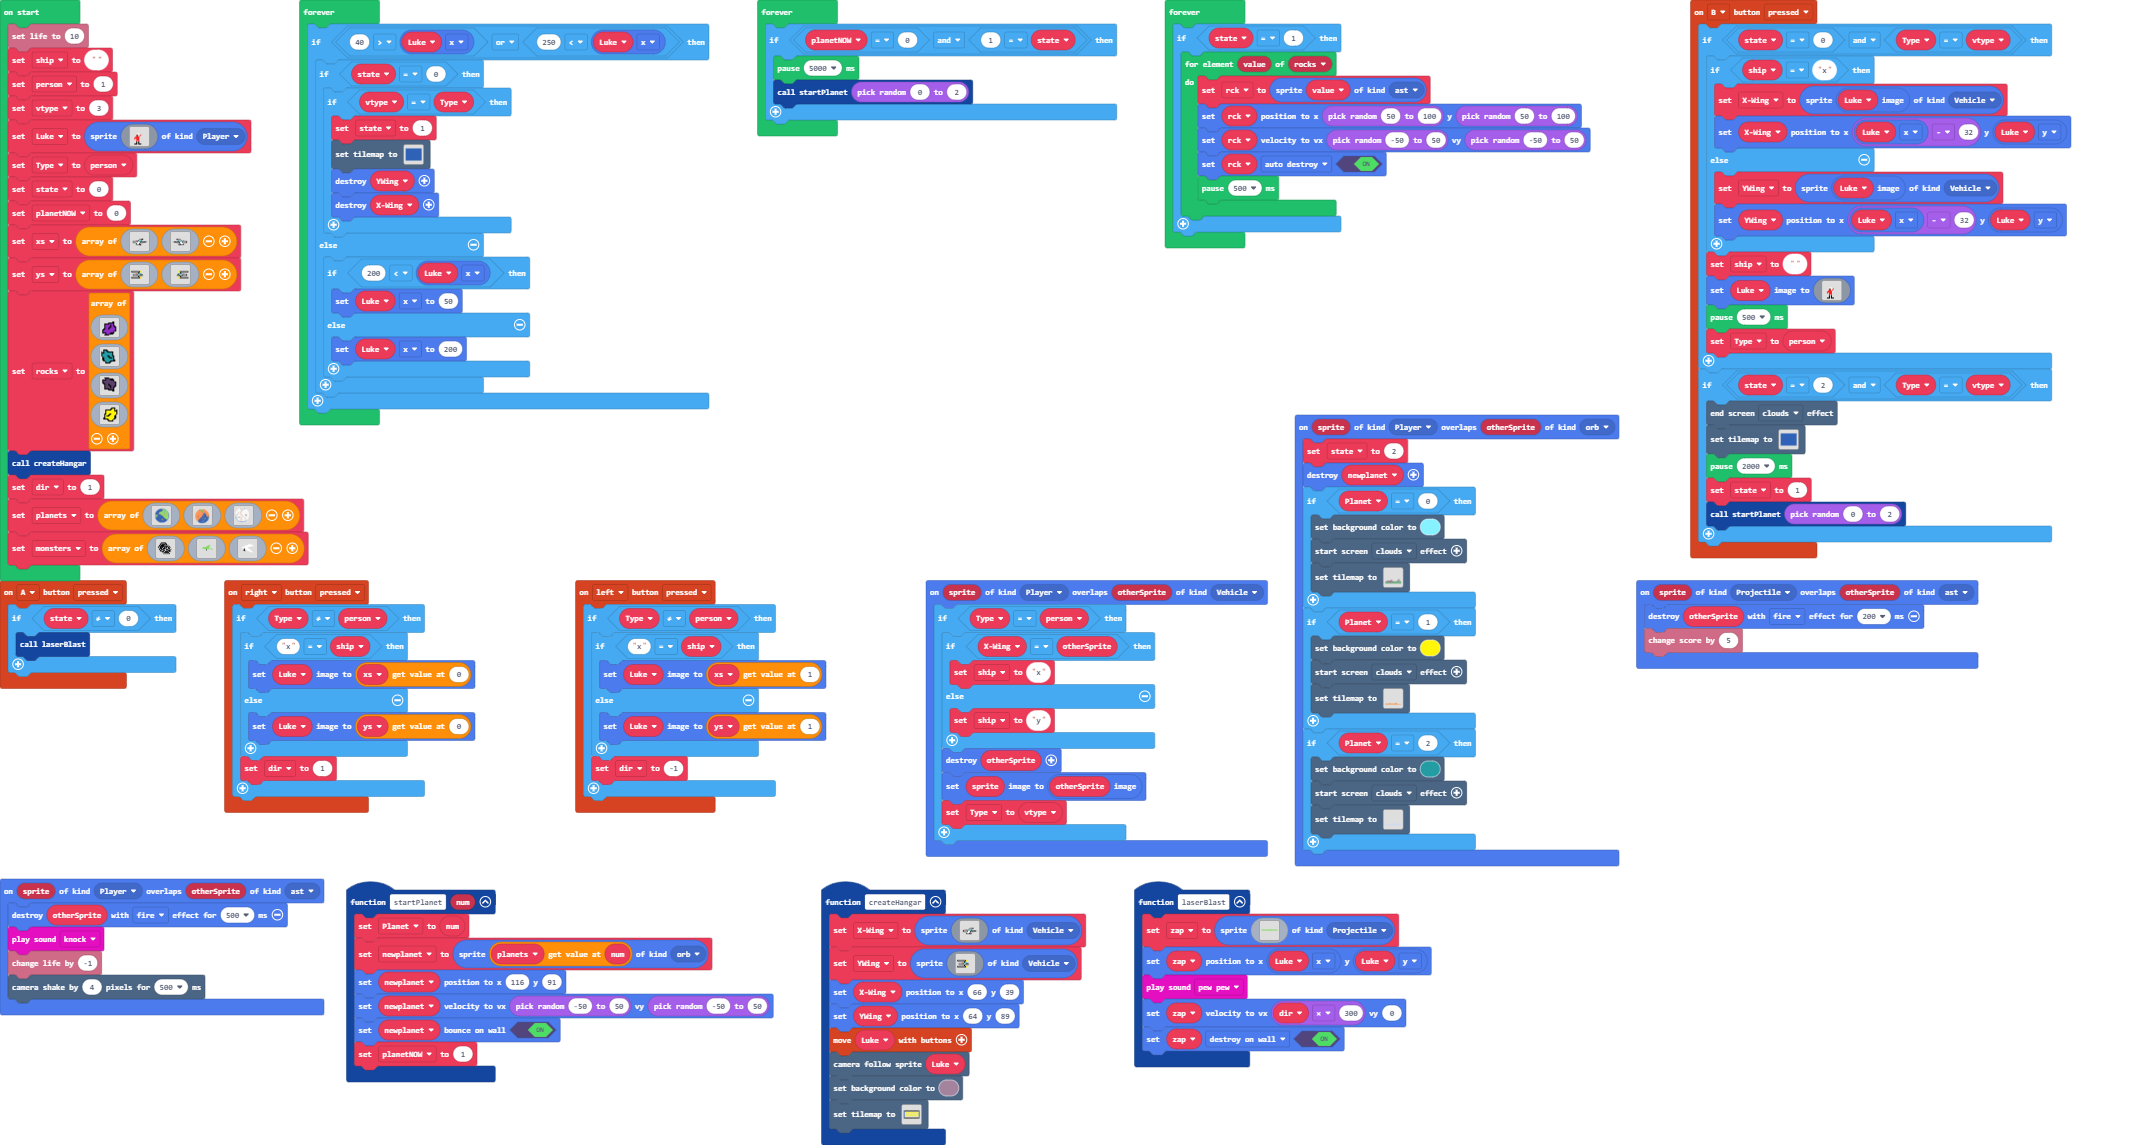
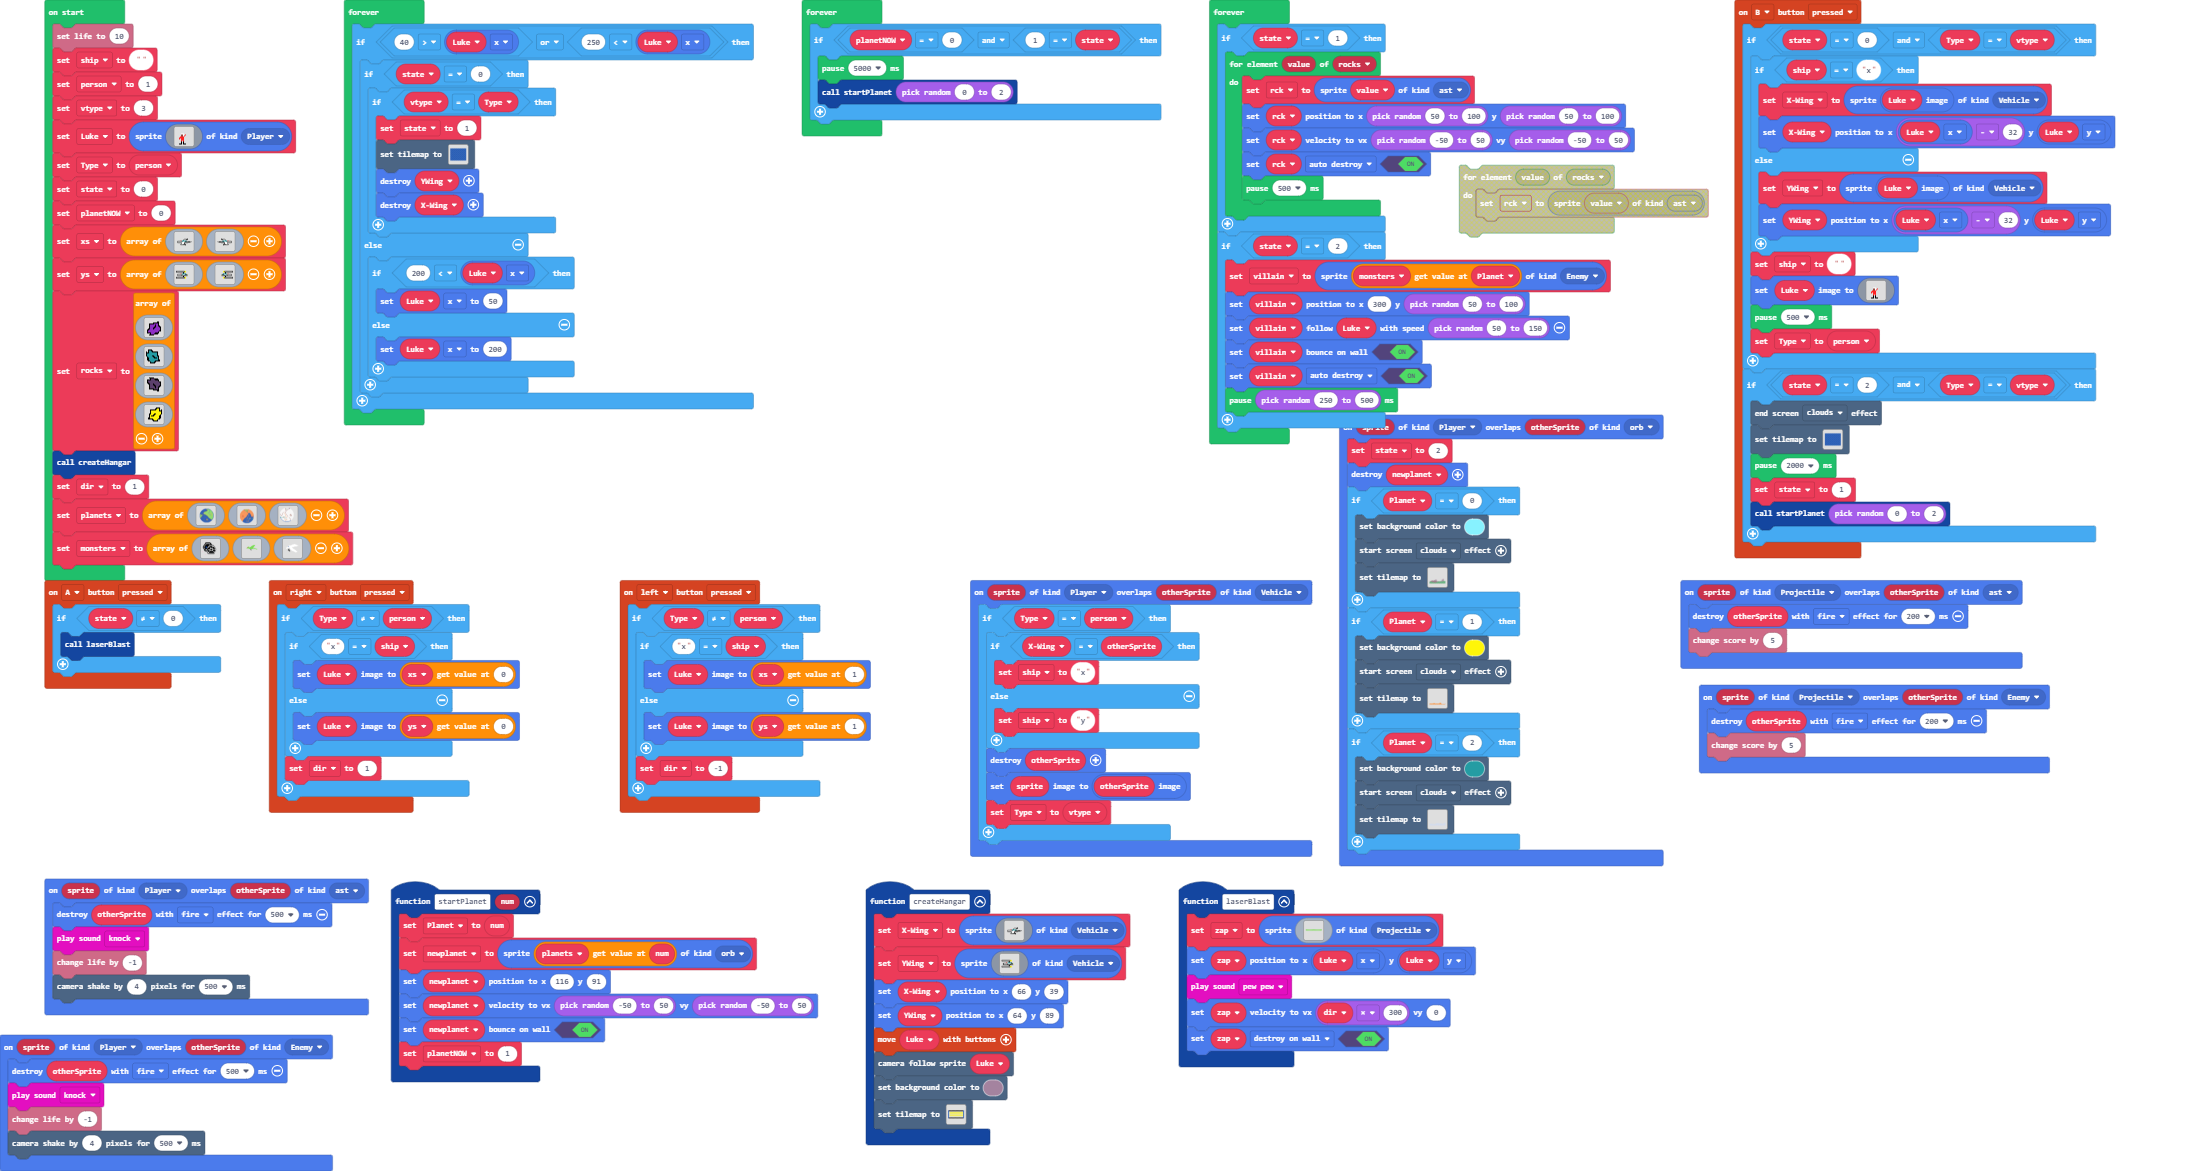
Update main.blocks, main.ts

diff --git a/main.ts b/main.ts
@@ -116,6 +116,17 @@ sprites.onOverlap(SpriteKind.Player, SpriteKind.ast, function (sprite, otherSpri
     info.changeLifeBy(-1)
     scene.cameraShake(4, 500)
 })
+sprites.onOverlap(SpriteKind.Projectile, SpriteKind.Enemy, function (sprite, otherSprite) {
+    otherSprite.destroy(effects.fire, 200)
+    info.changeScoreBy(5)
+})
+sprites.onOverlap(SpriteKind.Player, SpriteKind.Enemy, function (sprite, otherSprite) {
+    otherSprite.destroy(effects.fire, 500)
+    music.knock.play()
+    info.changeLifeBy(-1)
+    scene.cameraShake(4, 500)
+})
+let villain: Sprite = null
 let rck: Sprite = null
 let zap: Sprite = null
 let newplanet: Sprite = null
@@ -186,5 +197,13 @@ forever(function () {
             rck.setFlag(SpriteFlag.AutoDestroy, true)
             pause(500)
         }
+    }
+    if (state == 2) {
+        villain = sprites.create(monsters[Planet], SpriteKind.Enemy)
+        villain.setPosition(300, randint(50, 100))
+        villain.follow(Luke, randint(50, 150))
+        villain.setBounceOnWall(true)
+        villain.setFlag(SpriteFlag.AutoDestroy, true)
+        pause(randint(250, 500))
     }
 })
